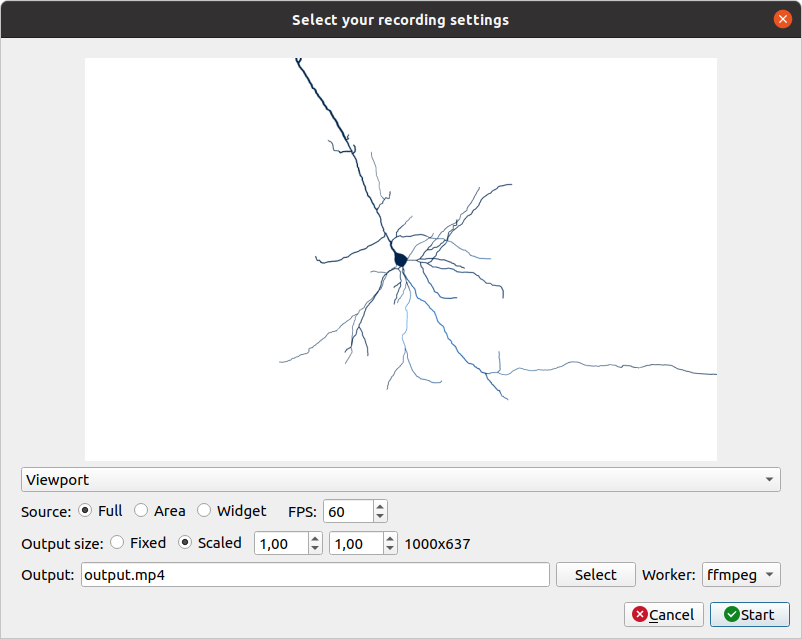
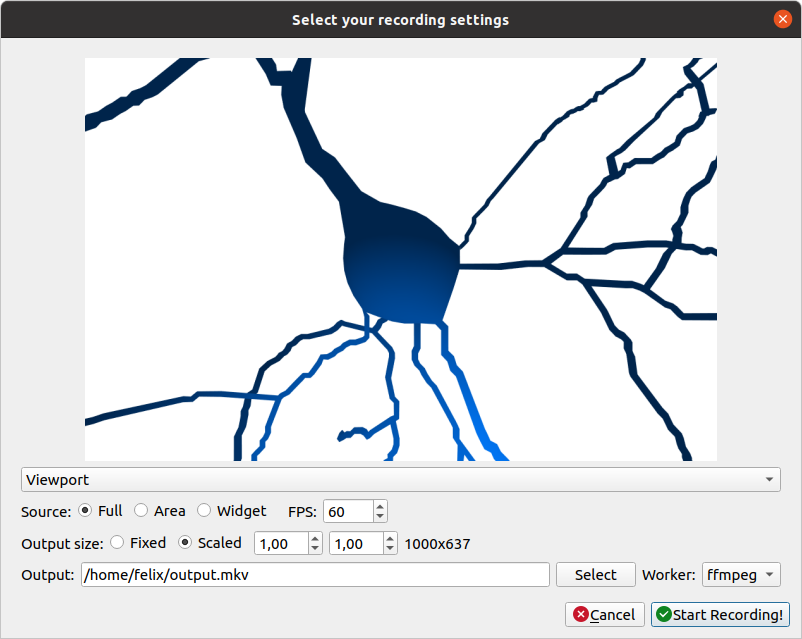
Update to version 0.3.1

diff --git a/source/conf.py b/source/conf.py
@@ -22,7 +22,7 @@ copyright = '2022, Universidad Rey Juan Carlos'
 author = 'Félix de las Pozas Álvarez'
 
 # The full version, including alpha/beta/rc tags
-release = '0.3.0'
+release = '0.3.1'
 
 
 # -- General configuration ---------------------------------------------------
@@ -67,7 +67,7 @@ latex_maketitle = r'''
 \begin{center}
   \includegraphics[width=6cm,height=6cm]{neurotessmesh.png}\\[8ex]
   {\Huge NeuroTessMesh Documentation}\\[4ex]
-  {\Large Version 0.3.0}\\[4ex]
+  {\Large Version 0.3.1}\\[4ex]
   {\Large Juan Jos\'{e} Garc\'{i}a Cantero \& F\'{e}lix de las Pozas \'{A}lvarez}\\[4ex]
   {\Large March 2022}\\[16ex]
   {\Large Visualization \& Graphics Lab, Universidad Rey Juan Carlos}\\[4ex]

diff --git a/source/01-Introduction.rst b/source/01-Introduction.rst
@@ -4,7 +4,7 @@ NeuroTessMesh Introduction
 
 **NeuroLOTs** is a set of libraries and tools that implement a method for generating neuronal meshes and for visualizing them at different levels of detail using GPU-based tessellation. As a part of NeuroLOTs, **NeuroTessMesh** provides a visual environment for the generation of 3D polygonal meshes that approximate the membrane of neuronal cells, from the morphological tracings that describe the morphology of the neurons. The 3D models can be tessellated at different levels of detail, providing either homogeneous or adaptive resolution along the model. The soma shape is recovered from the incomplete information of the tracings, applying a physical deformation model that can be interactively adjusted. The adaptive refinement process performed in the GPU generates meshes that allow good visual quality geometries at an affordable computational cost, both in terms of memory and rendering time. NeuroTessMesh is the front-end GUI to NeuroLOTs framework. 
 
-This documentation is for NeuroTessMesh version 0.3.0 software that can be obtained from the homepage.
+This documentation is for NeuroTessMesh version 0.3.1 software that can be obtained from the homepage.
 
 ---------------------
 Hardware requirements
@@ -117,9 +117,9 @@ Docker example
 
   xhost +local:docker
   # Pull the image.
-  docker pull vglab/neurotessmesh:0.3.0-nvidia-ubuntu-16.04
+  docker pull vglab/neurotessmesh:0.3.1-nvidia-ubuntu-16.04
   # Download example data
   wget http://neuromorpho.org/dableFiles/allen%20cell%20types/CNG%20version/H16-03-001-01-09-01_559391771_m.CNG.swc
   # Run example
-  docker run --gpus 1 -ti --rm -e DISPLAY -v /tmp/.X11-unix:/tmp/.X11-unix -v /etc/machine-id:/etc/machine-id -v $(pwd)/H16-03-001-01-09-01_559391771_m.CNG.swc:/H16-03-001-01-09-01_559391771_m.CNG.swc --privileged vglab/neurotessmesh:0.3.0-nvidia-ubuntu-16.04 /usr/bin/NeuroTessMesh -swc /H16-03-001-01-09-01_559391771_m.CNG.swc
+  docker run --gpus 1 -ti --rm -e DISPLAY -v /tmp/.X11-unix:/tmp/.X11-unix -v /etc/machine-id:/etc/machine-id -v $(pwd)/H16-03-001-01-09-01_559391771_m.CNG.swc:/H16-03-001-01-09-01_559391771_m.CNG.swc --privileged vglab/neurotessmesh:0.3.1-nvidia-ubuntu-16.04 /usr/bin/NeuroTessMesh -swc /H16-03-001-01-09-01_559391771_m.CNG.swc
 

diff --git a/source/02-NeuroTessMeshUserInterface.rst b/source/02-NeuroTessMeshUserInterface.rst
@@ -170,7 +170,7 @@ The recording feature can be activated using the **Tools** menu or by clicking t
 
    Recorder standard configuration dialog. 
 
-The recorder will generate a mp4 video if the media application **ffmpeg** is detected and available, if not the generated output will be individual frames. The frames per second of the output can be specified here. The user can specify the input of the recording, being the main application window or just the 3D viewport.
+The recorder will generate a Matroska MKV video if the media application **ffmpeg** is detected and available, if not the generated output will be individual frames. The frames per second of the output can be specified here. The user can specify the input of the recording, being the main application window or just the 3D viewport.
 
 In the advanced configuration dialog (:numref:`figB`) the user can modify additional options as which worker (video or frames) to use to generate the output. The advanced configuration dialog can be enabled by checking the **Advanced recorder options checkbox** in the **Tools** menu).
 
